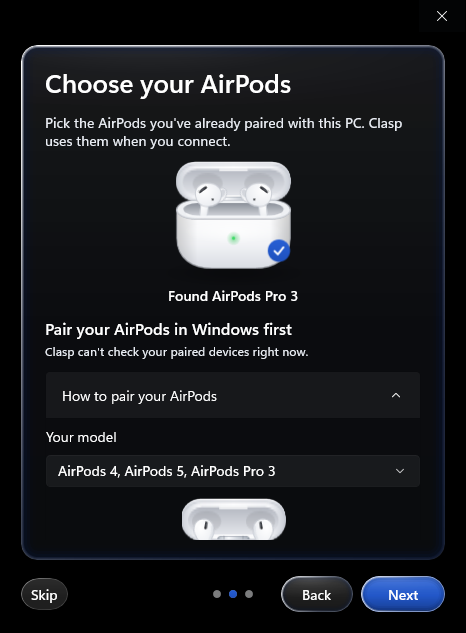
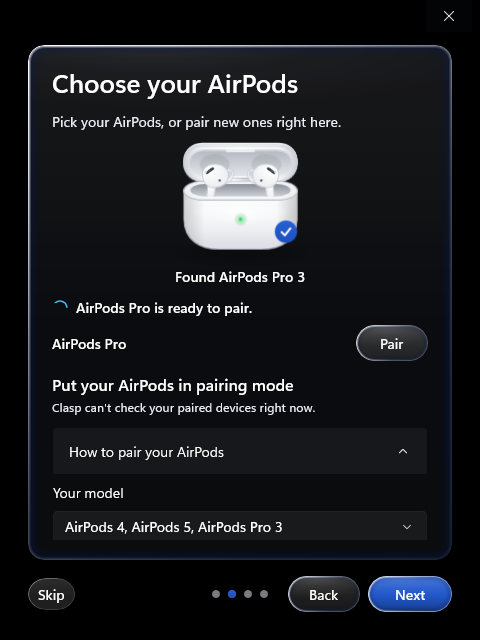
docs: describe in-app pairing and 0.4.x changes; retake welcome screenshots
README, the hub README, the install guide and the architecture tour still
said Clasp never pairs and that AirPods must be paired in Windows Settings
first. Since 0.4.0 the welcome guide pairs on click (tested by the owner
with AirPods Pro 3). Also: the signature checker command now points at
the clasp-v0.4.2 tag, BUILDING lists --welcome-page=1..4 and
--demo-history=sparse, the README mentions the sparse battery history,
and the welcome and pairing screenshots show the current four-page guide.

Changed region(s): [[0.03, 0.06, 0.9614, 0.9905], [0.721, 0.4803, 0.9013, 0.5703], [0.9313, 0.0, 0.9614, 0.03]]

diff --git a/README.md b/README.md
@@ -24,10 +24,10 @@ Click the tray icon and a small panel opens with the battery level of each earbu
 - **Battery for every part.** Left earbud, right earbud and case, each with its own ring. When you take earbuds out of the case, they move out over their own rings.
 - **Sound stays where you want it.** Clasp can remember the output you were using and switch back when your AirPods disconnect.
 - **Play and pause.** Optionally, it presses Play when your AirPods connect and pause when they leave. It can also pause when you take them out of your ears. That last one is an estimate from nearby signals, so it can lag or miss a change, and it is off by default.
-- **Battery history.** A chart for the last 24 hours or 7 days.
+- **Battery history.** A chart for the last 24 hours or 7 days. If you only use your AirPods with this PC now and then, the long gaps shrink so the times you did use them stay readable.
 - **Heads-up notices.** Optionally, it tells you when the battery is low, when you open the case, or when your AirPods have moved to another device.
 - **Your actual model.** Each of the 21 supported AirPods and Beats models has its own picture. If your model comes in more than one finish, **Settings > AirPods > Device color** lets you pick yours.
-- **Pairing help.** A welcome guide and pairing help walk you through pairing a model for the first time, with the right button presses for each one.
+- **Pair from Clasp.** The welcome guide lists AirPods and Beats that are in pairing mode, each with a **Pair** button, then connects the ones you pick. It also shows the right button presses to put your model into pairing mode, and a last page sets your main options before you finish.
 
 <p align="center">
   <img src="assets/screenshots/battery-history.png" alt="Settings page showing a battery history chart for the left earbud, right earbud and case" width="520">
@@ -36,10 +36,10 @@ Click the tray icon and a small panel opens with the battery level of each earbu
 <p align="center">
   <img src="assets/screenshots/welcome.png" alt="Clasp's welcome page" width="260">
   &nbsp;
-  <img src="assets/screenshots/pairing-help.png" alt="Clasp's pairing help, showing the steps for the chosen AirPods model" width="260">
+  <img src="assets/screenshots/pairing-help.png" alt="Clasp's welcome guide pairing page, with the chosen AirPods, a search for AirPods in pairing mode, and pairing steps" width="260">
 </p>
 
-Clasp does not pair devices for you. Pair your AirPods once in Windows Settings, then choose them in Clasp.
+You can pair new AirPods right in the welcome guide, or in Windows Settings as before. Nothing pairs until you click **Pair**, so someone else's AirPods in pairing mode nearby are never picked up by accident. Pairing in Clasp is tested with AirPods Pro 3. Headphones that ask for a code still need Windows Settings, and the guide has a link to it.
 
 ### How accurate is the battery?
 
@@ -65,7 +65,7 @@ The model information comes from other open-source projects (LibrePods, CAPod an
 
 ## Download and install
 
-**You need:** Windows 11, 64-bit, and Bluetooth. Pair your AirPods in Windows Settings first.
+**You need:** Windows 11, 64-bit, and Bluetooth. You can pair your AirPods in Clasp's welcome guide after installing, or in Windows Settings.
 
 Download the latest `Clasp-X.Y.Z-win-x64-setup.exe` from the [releases page](https://github.com/yirock7/Clasp-releases/releases/latest), together with its `.sig` file, and keep both in the same folder (your Downloads folder is fine).
 
@@ -73,7 +73,7 @@ Download the latest `Clasp-X.Y.Z-win-x64-setup.exe` from the [releases page](htt
 
 ```powershell
 cd $env:USERPROFILE\Downloads
-Invoke-WebRequest https://raw.githubusercontent.com/yirock7/Clasp-releases/clasp-v0.3.0/windows/hub/tools/Verify-ClaspInstaller.ps1 -OutFile Verify-ClaspInstaller.ps1
+Invoke-WebRequest https://raw.githubusercontent.com/yirock7/Clasp-releases/clasp-v0.4.2/windows/hub/tools/Verify-ClaspInstaller.ps1 -OutFile Verify-ClaspInstaller.ps1
 powershell -ExecutionPolicy Bypass -File .\Verify-ClaspInstaller.ps1 -Installer .\Clasp-X.Y.Z-win-x64-setup.exe
 ```
 
@@ -99,7 +99,7 @@ Clasp has no accounts and no telemetry. Here is everything it stores and sends, 
 
 - **On your PC**, in `%LOCALAPPDATA%\AppleDeviceHub`: your settings, your battery history, and a small log (`hub.log`, kept under 512 KB, written without device names or Bluetooth addresses). Nothing in that folder is uploaded.
 - **Over the internet**: only the update check, which asks GitHub for the list of releases, and the download if you choose to update. GitHub can see your IP address like any website you visit. Clasp sends no identifiers of its own. By default it does not check on its own; it asks you once whether you want automatic checks (daily, weekly or monthly), and you can change that in Settings.
-- **Over Bluetooth**: Clasp listens to the broadcasts that nearby Apple devices send out, to read battery levels. It never pairs with or connects to anything without you asking. You can turn nearby detection off in Settings.
+- **Over Bluetooth**: Clasp listens to the broadcasts that nearby Apple devices send out, to read battery levels. While the welcome guide's pairing page is open, it also looks for headphones in pairing mode, the same search Windows Settings runs. It never pairs with or connects to anything without you asking. You can turn nearby detection off in Settings.
 
 Because the source is public, you do not have to take my word for any of this. You can read it.
 
@@ -123,7 +123,7 @@ Clasp is made by me, [yirock7](https://github.com/yirock7), on my own in my spar
 
 **Where are my settings?** In `%LOCALAPPDATA%\AppleDeviceHub\settings.json`.
 
-**It says it can't find my AirPods.** Pair them in Windows Settings first, open the case near your PC, and make sure Bluetooth is on. The welcome guide has model-specific pairing steps, and you can also read them in [docs/PAIRING-MODES.md](docs/PAIRING-MODES.md).
+**It says it can't find my AirPods.** Make sure Bluetooth is on and open the case near your PC. If they have never been paired with this PC, pair them first: open the welcome guide (Settings, About, **Show welcome guide**), put them in pairing mode and click **Pair**, or use Windows Settings. The guide has model-specific pairing steps, and you can also read them in [docs/PAIRING-MODES.md](docs/PAIRING-MODES.md).
 
 **I found a bug.** Please [open an issue](https://github.com/yirock7/Clasp-releases/issues/new/choose). Your Clasp version (Settings, About), Windows version and AirPods model help a lot.
 

diff --git a/windows/hub/README.md b/windows/hub/README.md
@@ -6,7 +6,7 @@ For what Clasp does and how it handles your data, read the [main README](../../R
 
 ## How it works, briefly
 
-- **Pairing stays in Windows.** You pair your AirPods in Windows Settings. In Clasp you pick one of the paired devices and use **Connect**, which asks Windows to reconnect it. Clasp calls the device connected only after Windows exposes an active audio endpoint. Choosing a device does not change your sound output.
+- **Pairing uses Windows.** While the welcome guide's pairing page is open, Clasp runs the same search for unpaired devices that Windows Settings does and lists AirPods and Beats in pairing mode. **Pair** asks Windows to pair that one device with the "just works" ceremony; anything that asks for a code is sent to Windows Settings instead. Nothing pairs without a click. You can also pair in Windows Settings. In Clasp you pick one of the paired devices and use **Connect**, which asks Windows to reconnect it. Clasp calls the device connected only after Windows exposes an active audio endpoint. Choosing a device does not change your sound output.
 - **Nearby detection** reads the approximate battery broadcasts that Apple devices send over Bluetooth Low Energy. It is passive (it never pairs or connects) and can be turned off in Settings. The source is not matched to your paired device, so another pair nearby can supply the estimate, which is why the app calls it an estimate.
 - **Automatic reconnect** is off by default. If you turn it on, Clasp makes one reconnect attempt for the chosen device when it notices a case opening nearby. It never starts or resumes your music.
 - **The tray icon** draws the silhouette of the device you selected in Windows (never one picked from Bluetooth broadcasts, which can be faked), dimmed when it is not connected. Its colour shows the battery: amber when low, red at your low-battery level, green while charging. There is no number on the icon; hover for the exact percentage, or click for full details.

diff --git a/docs/ARCHITECTURE.md b/docs/ARCHITECTURE.md
@@ -7,7 +7,7 @@ A short tour of how Clasp is put together, for people who want to read or change
 Three things are kept separate on purpose, because mixing them is how apps end up lying to you:
 
 1. **Nearby observation.** Bluetooth broadcasts from Apple devices, read passively. This gives battery estimates in 10% steps and "a case was opened nearby" prompts. Broadcasts can be heard from anyone's AirPods and can be faked, so they never decide which device is *yours*.
-2. **Your paired device.** The device you picked from the ones paired in Windows. Its identity comes from Windows Bluetooth metadata. Clasp calls it connected only once Windows shows an active audio endpoint for it.
+2. **Your paired device.** The device you picked from the ones paired in Windows, or the one you just paired from the welcome guide. Its identity comes from Windows Bluetooth metadata, never from a broadcast. Clasp calls it connected only once Windows shows an active audio endpoint for it.
 3. **Audio routing.** Which output Windows is currently using. Tracked separately, so choosing a device never silently changes your sound output.
 
 ```mermaid
@@ -18,6 +18,8 @@ flowchart LR
     UI --> Pair[Connection view model]
     Pair --> WinAudio[Windows paired-device controller<br/>explicit reconnect request]
     WinAudio --> Endpoint[Device audio endpoint]
+    UI --> Pairing[Welcome guide pairing<br/>Windows device search, pair on click]
+    Pairing --> WinAudio
     BLE -. "unmatched nearby source" .-> Estimate[Approximate battery estimate]
     UI --> Output[Windows audio output state]
 ```

diff --git a/docs/INSTALLING-AND-UPDATING.md b/docs/INSTALLING-AND-UPDATING.md
@@ -6,7 +6,7 @@ Download the installer from the [latest release](https://github.com/yirock7/Clas
 
 Windows 11, 64-bit (build 22000 or later), and Bluetooth. Windows Server and Windows on ARM are not supported, and the installer refuses them. You do not need the .NET SDK or any other tool to run Clasp.
 
-Clasp is driver-free. Setup installs the app for your Windows account and does not install a Bluetooth driver, change pairing, enable Test Mode, or touch Secure Boot or any other security setting. Pair your earbuds in Windows Settings before using Clasp.
+Clasp is driver-free. Setup installs the app for your Windows account and does not install a Bluetooth driver, change pairing, enable Test Mode, or touch Secure Boot or any other security setting. After installing, you can pair your earbuds in Clasp's welcome guide, or in Windows Settings as before.
 
 
 ## Check the download first
@@ -17,7 +17,7 @@ Download the installer and its `.sig` file from the Releases page into the same 
 
 ```powershell
 cd $env:USERPROFILE\Downloads
-Invoke-WebRequest https://raw.githubusercontent.com/yirock7/Clasp-releases/clasp-v0.3.0/windows/hub/tools/Verify-ClaspInstaller.ps1 -OutFile Verify-ClaspInstaller.ps1
+Invoke-WebRequest https://raw.githubusercontent.com/yirock7/Clasp-releases/clasp-v0.4.2/windows/hub/tools/Verify-ClaspInstaller.ps1 -OutFile Verify-ClaspInstaller.ps1
 powershell -ExecutionPolicy Bypass -File .\Verify-ClaspInstaller.ps1 -Installer .\Clasp-X.Y.Z-win-x64-setup.exe
 ```
 

diff --git a/docs/BUILDING.md b/docs/BUILDING.md
@@ -41,9 +41,10 @@ Some useful arguments:
 | Argument | Effect |
 | --- | --- |
 | `--show=flyout`, `--show=card`, `--show=settings`, `--show=welcome` | Open that window straight away |
-| `--welcome-page=1..3` | With `--show=welcome`, jump to a page |
+| `--welcome-page=1..4` | With `--show=welcome`, jump to a page |
 | `--settings-section=general`, `airpods`, `history`, `sound`, `shortcuts`, `advanced`, `about` | With `--show=settings`, jump to a section |
 | `--demo-history` | Fill the battery history chart with made-up data (never saved) |
+| `--demo-history=sparse` | Made-up history with long gaps, as when AirPods are only used with this PC now and then |
 | `--demo-battery=low`, `unknown`, `stale` | Start with that battery situation |
 | `--demo-model=0x1720` | Show a different model's artwork and battery layout, by its model id |
 | `--demo-ears=in`, `out`, `left`, `case` | Report where the earbuds are (in ears, out of the case, only the left out, both in the case), so you can see the buds pull out over their rings |
